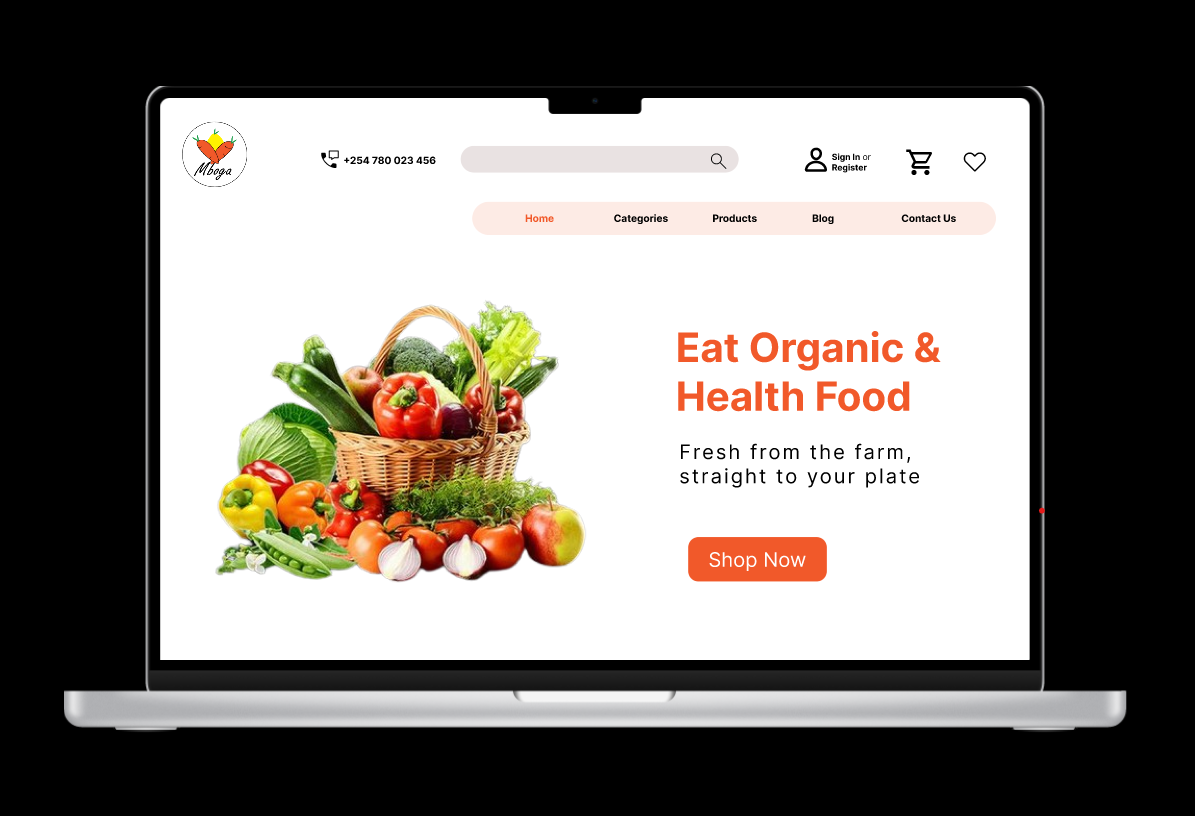
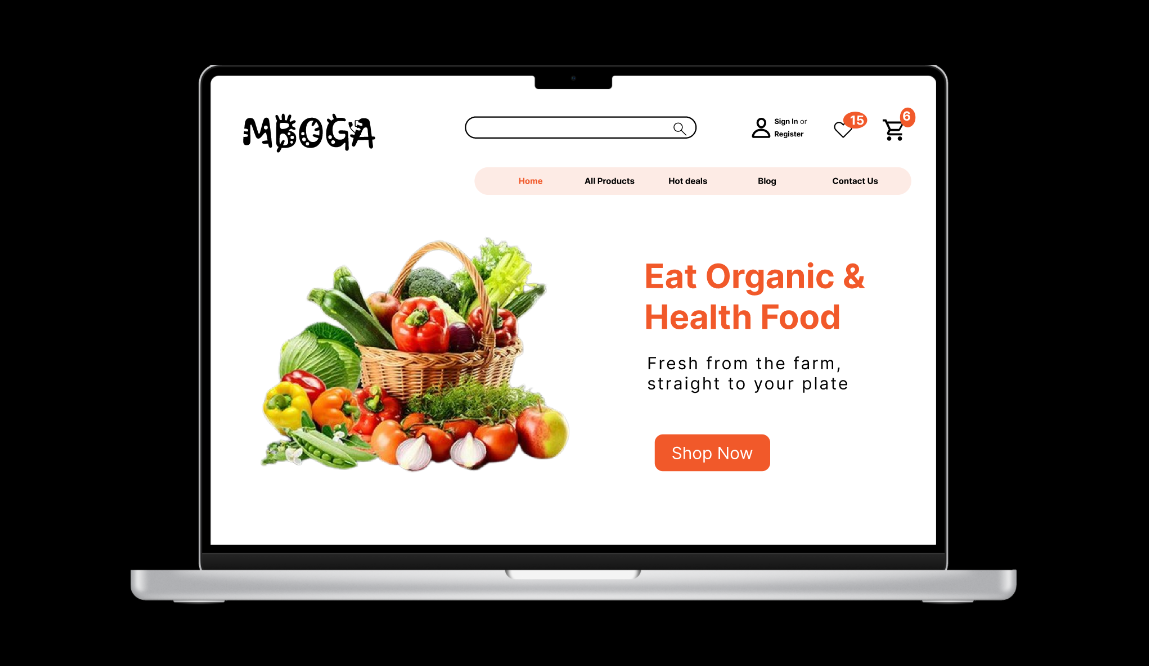
Added Changes on Projects

Changed region(s): [[0.0305, 0.0901, 0.9443, 0.9309], [0.5483, 0.5405, 0.7615, 0.6006], [0.5483, 0.6306, 0.7006, 0.7207]]

diff --git a/src/app/Components/Projects/index.tsx b/src/app/Components/Projects/index.tsx
@@ -20,9 +20,9 @@ const projects = [
   {
     proj: [
       {
-        img: "/images/ThemisAI.png",
+        img: "/images/themis-ai.png",
         name: "Themis AI",
-        link: "https://themis-dashboard-one.vercel.app/",
+        link: "https://drive.google.com/drive/folders/1Q15VpJT-iROo5zri-8GQLRwtxRtZsj4X",
       },
     ],
   },
@@ -30,9 +30,9 @@ const projects = [
   {
     proj: [
       {
-        img: "/images/Mboga.png",
-        name: "Mboga E-commerce Design",
-        link: "https://www.figma.com/proto/c9hSedHearoNkEp0vPhtvR/Mboga?node-id=2049-13&t=avHqbOZ0BoogsIW3-1&scaling=scale-down&content-scaling=fixed&page-id=12%3A2",
+        img: "/images/weather-forecast.png",
+        name: "Panga Meteo",
+        link: "https://weather-forecast-nu-rose.vercel.app/",
       }
     ],
   },
@@ -40,9 +40,9 @@ const projects = [
   {
     proj: [
       {
-        img: "/images/Medical_Supplier.png",
-        name: "Medical Supply Usage Forecast",
-        link: "https://medical-supply-usage-forecast.vercel.app/",
+       img: "/images/mboga.png",
+        name: "Mboga E-commerce Design",
+        link: "https://www.figma.com/proto/c9hSedHearoNkEp0vPhtvR/Mboga?node-id=2049-13&t=avHqbOZ0BoogsIW3-1&scaling=scale-down&content-scaling=fixed&page-id=12%3A2",
       },
       
     ],
@@ -62,7 +62,7 @@ const projects = [
 const ProjectCard: React.FC<ProjectCardProps> = ({ project }) => (
   <div className="bg-white rounded-lg shadow-md overflow-hidden">
     <div className="aspect-w-4 aspect-h-3">
-      <a href={project.link} className="text-blue-600 hover:underline">
+      <a href={project.link} target="_blank" className="text-blue-600 hover:underline">
         <Image
           src={project.img}
           alt={project.name}

diff --git a/src/app/layout.tsx b/src/app/layout.tsx
@@ -16,6 +16,9 @@ const geistMono = localFont({
 export const metadata: Metadata = {
   title: "Latifa Umunyana Portfolio",
   description: "As a Software Developer actively seeking opportunities in the tech industry, this is my personal website that showcases my latest projects, technical skills, and professional journey.",
+  icons: {
+    icon: '/favicon.png'
+  },
 };
 
 export default function RootLayout({
